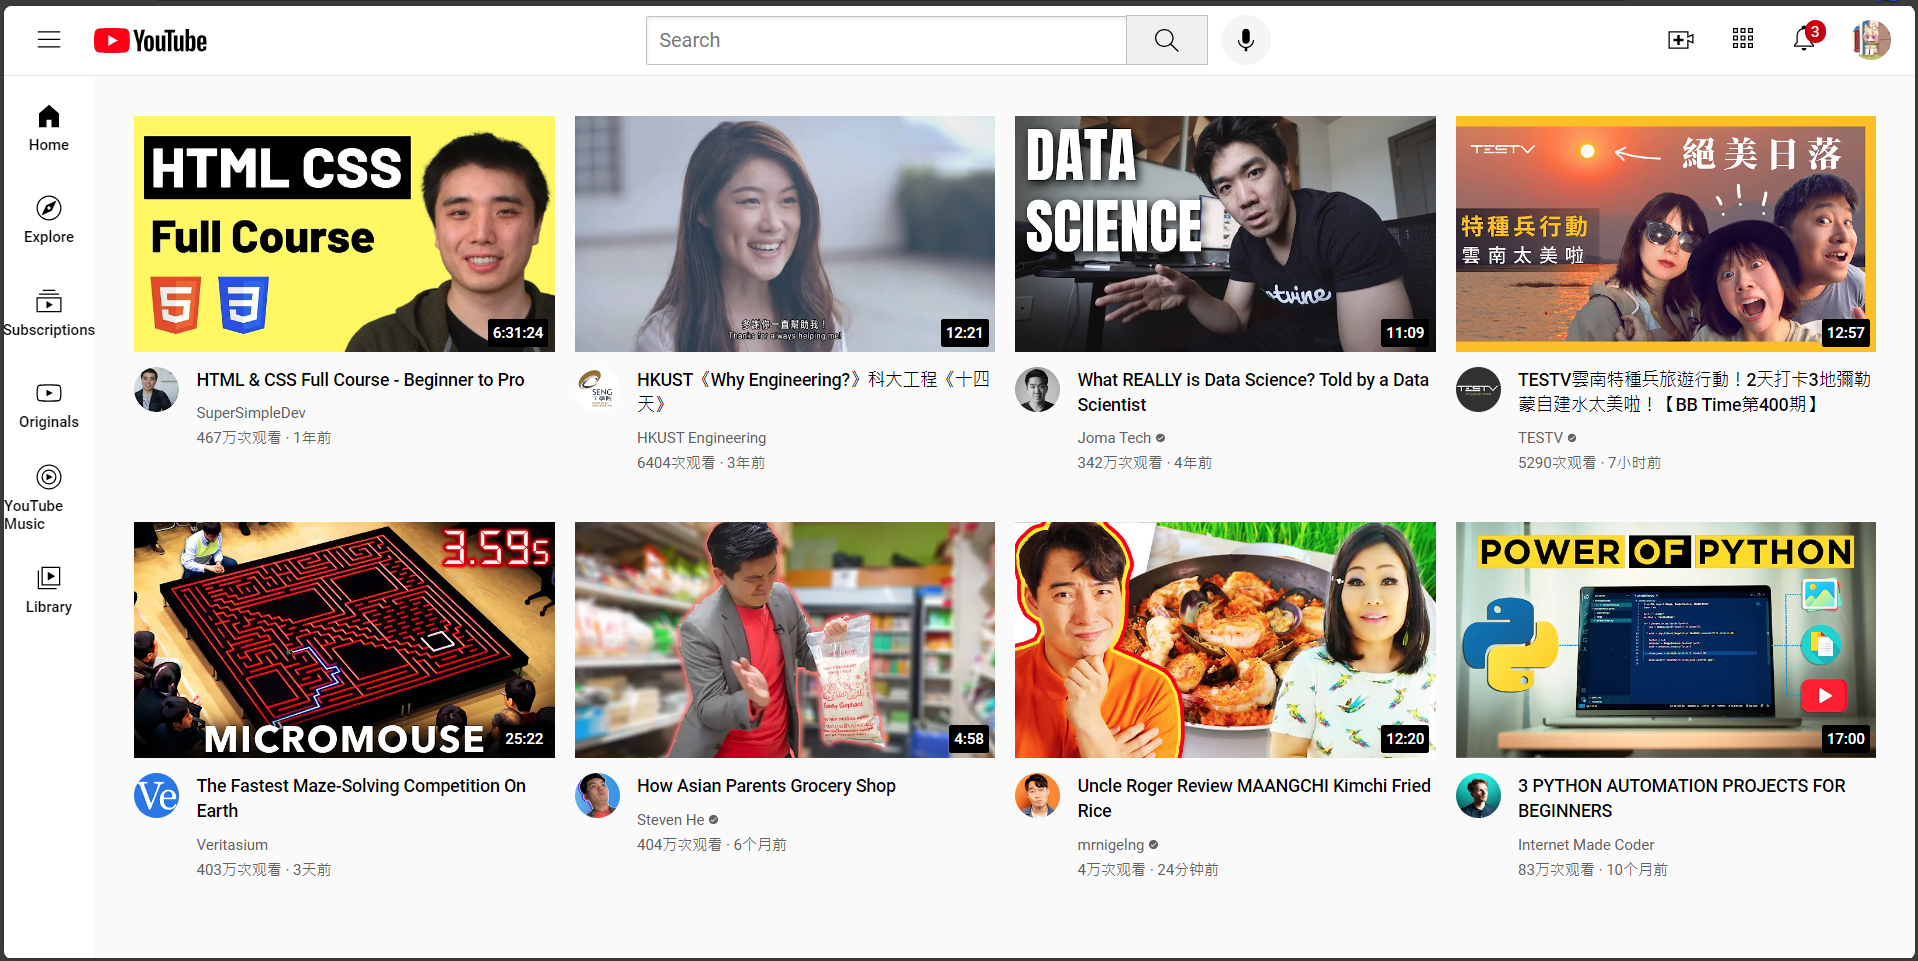
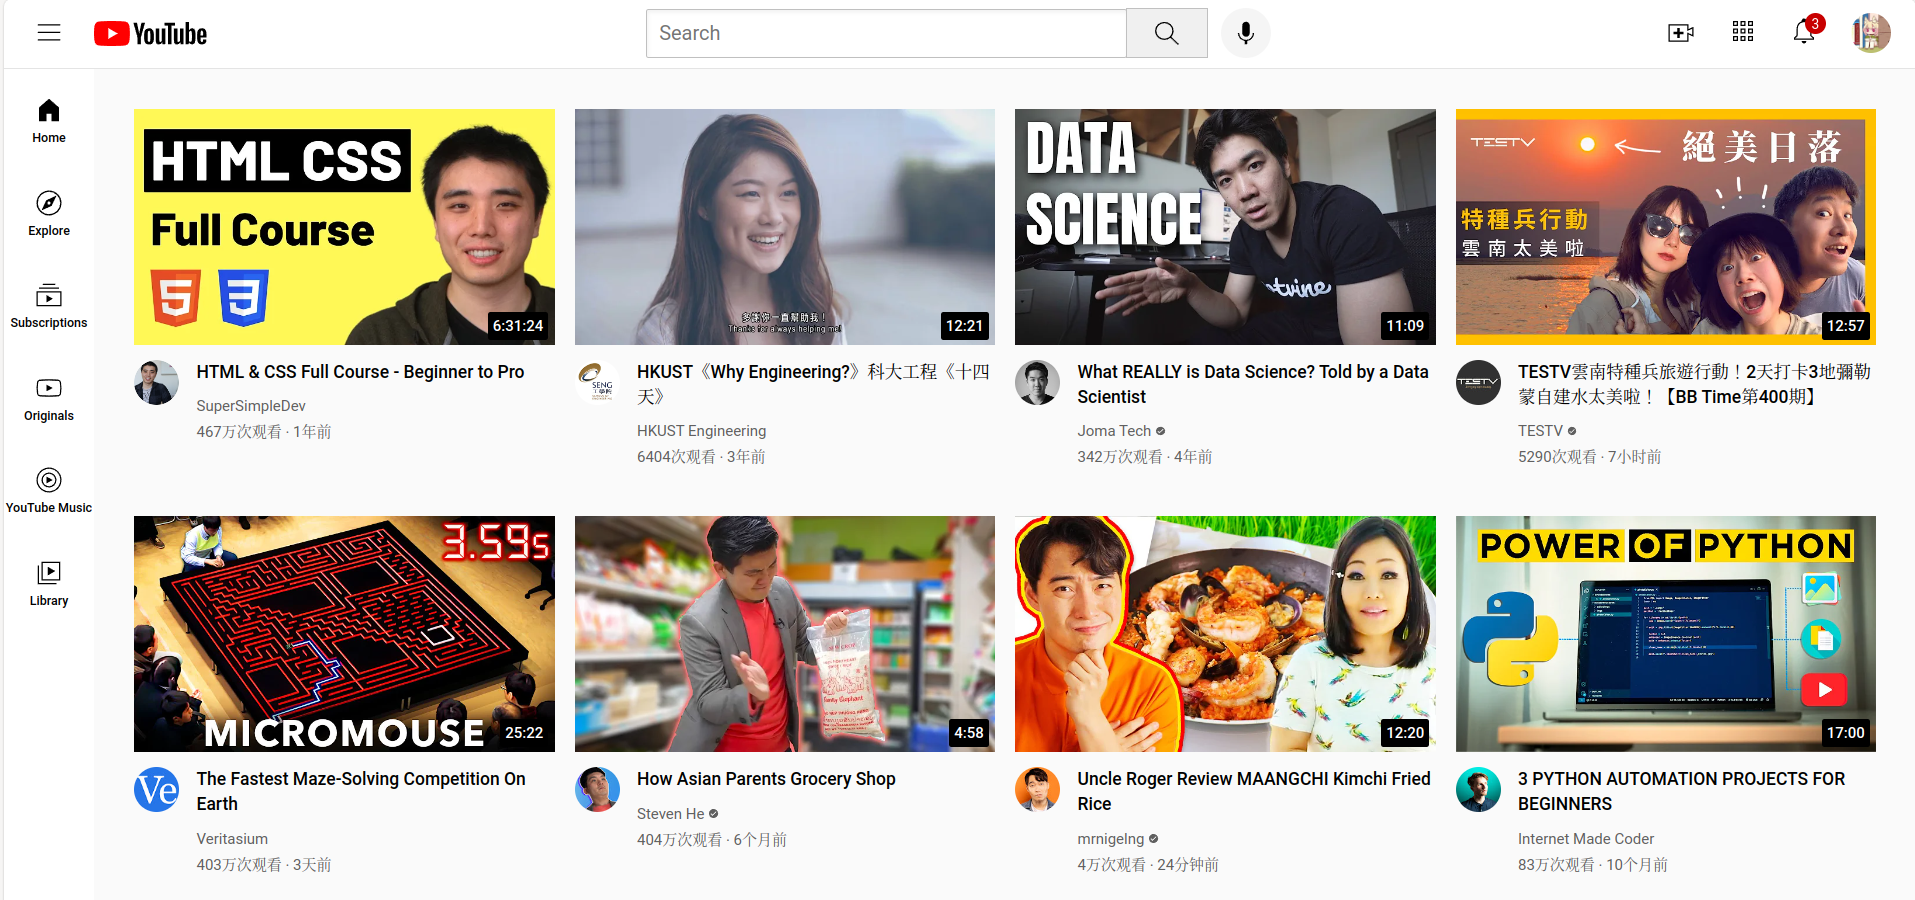
Misc update

diff --git a/youtube_clone/youtube.html b/youtube_clone/youtube.html
@@ -18,8 +18,8 @@
             <div class="left-section">
                 <img class="hamburger-menu" src="icons/hamburger-menu.svg"
                     alt="Menu Icon">
-                <img class="youtube-logo" src="icons/youtube-logo.svg"
-                    alt="YouTube Logo">
+                <a href="./youtube.html"><img class="youtube-logo" src="icons/youtube-logo.svg"
+                    alt="YouTube Logo"></a>
             </div>
             <div class="middle-section">
                 <input class="search-bar" type="text" placeholder="Search">
@@ -112,13 +112,13 @@
             </div>
             <div class="video-preview">
                 <div class="thumbnail-row">
-                    <img class="thumbnail" src="thumbnails/thumbnail-2.webp">
+                    <a href="https://www.youtube.com/watch?v=NqYLIrtSAEE&t=3s&ab_channel=HKUSTEngineering"><img class="thumbnail" src="thumbnails/thumbnail-2.webp"></a>
                     <div class="video-time">12:21</div>
                 </div>
                 <div class="video-info-grid">
                     <div class="channel-picture">
-                        <img class="profile-picture"
-                            src="channel-pictures/channel-2.jpg">
+                        <a href="https://www.youtube.com/@sengpr"><img class="profile-picture"
+                            src="channel-pictures/channel-2.jpg"></a>
                     </div>
                     <div class="video-info">
                         <p class="video-title">
@@ -135,13 +135,13 @@
             </div>
             <div class="video-preview">
                 <div class="thumbnail-row">
-                    <img class="thumbnail" src="thumbnails/thumbnail-3.webp">
+                    <a href="https://www.youtube.com/watch?v=xC-c7E5PK0Y&ab_channel=JomaTech"><img class="thumbnail" src="thumbnails/thumbnail-3.webp"></a>
                     <div class="video-time">11:09</div>
                 </div>
                 <div class="video-info-grid">
                     <div class="channel-picture">
-                        <img class="profile-picture"
-                            src="channel-pictures/channel-3.jpg">
+                        <a href="https://www.youtube.com/@jomaoppa"><img class="profile-picture"
+                            src="channel-pictures/channel-3.jpg"></a>
                     </div>
                     <div class="video-info">
                         <p class="video-title">
@@ -159,13 +159,13 @@
             </div>
             <div class="video-preview">
                 <div class="thumbnail-row">
-                    <img class="thumbnail" src="thumbnails/thumbnail-4.webp">
+                    <a href="https://www.youtube.com/watch?v=l9dZ1zDGKxg&t=2s&ab_channel=TESTV"><img class="thumbnail" src="thumbnails/thumbnail-4.webp"></a>
                     <div class="video-time">12:57</div>
                 </div>
                 <div class="video-info-grid">
                     <div class="channel-picture">
-                        <img class="profile-picture"
-                            src="channel-pictures/channel-4.jpg">
+                        <a href="https://www.youtube.com/@testvcn"><img class="profile-picture"
+                            src="channel-pictures/channel-4.jpg"></a>
                     </div>
                     <div class="video-info">
                         <p class="video-title">
@@ -182,13 +182,13 @@
             </div>
             <div class="video-preview">
                 <div class="thumbnail-row">
-                    <img class="thumbnail" src="thumbnails/thumbnail-5.webp">
+                    <a href="https://www.youtube.com/watch?v=ZMQbHMgK2rw&ab_channel=Veritasium"><img class="thumbnail" src="thumbnails/thumbnail-5.webp"></a>
                     <div class="video-time">25:22</div>
                 </div>
                 <div class="video-info-grid">
                     <div class="channel-picture">
-                        <img class="profile-picture"
-                            src="channel-pictures/channel-5.jpg">
+                        <a href="https://www.youtube.com/@veritasium"><img class="profile-picture"
+                            src="channel-pictures/channel-5.jpg"></a>
                     </div>
                     <div class="video-info">
                         <p class="video-title">
@@ -205,13 +205,13 @@
             </div>
             <div class="video-preview">
                 <div class="thumbnail-row">
-                    <img class="thumbnail" src="thumbnails/thumbnail-6.webp">
+                    <a href="https://www.youtube.com/watch?v=1V1ZrKOeXic&ab_channel=StevenHe"><img class="thumbnail" src="thumbnails/thumbnail-6.webp"></a>
                     <div class="video-time">4:58</div>
                 </div>
                 <div class="video-info-grid">
                     <div class="channel-picture">
-                        <img class="profile-picture"
-                            src="channel-pictures/channel-6.jpg">
+                        <a href="https://www.youtube.com/@StevenHe"><img class="profile-picture"
+                            src="channel-pictures/channel-6.jpg"></a>
                     </div>
                     <div class="video-info">
                         <p class="video-title">
@@ -228,13 +228,13 @@
             </div>
             <div class="video-preview">
                 <div class="thumbnail-row">
-                    <img class="thumbnail" src="thumbnails/thumbnail-7.webp">
+                    <a href="https://www.youtube.com/watch?v=QVWV3n1jME8&ab_channel=mrnigelng"><img class="thumbnail" src="thumbnails/thumbnail-7.webp"></a>
                     <div class="video-time">12:20</div>
                 </div>
                 <div class="video-info-grid">
                     <div class="channel-picture">
-                        <img class="profile-picture"
-                            src="channel-pictures/channel-7.jpg">
+                        <a href="https://www.youtube.com/@mrnigelng"><img class="profile-picture"
+                            src="channel-pictures/channel-7.jpg"></a>
                     </div>
                     <div class="video-info">
                         <p class="video-title">
@@ -251,13 +251,13 @@
             </div>
             <div class="video-preview">
                 <div class="thumbnail-row">
-                    <img class="thumbnail" src="thumbnails/thumbnail-8.webp">
+                    <a href="https://www.youtube.com/watch?v=vEQ8CXFWLZU&t=58s&ab_channel=InternetMadeCoder"><img class="thumbnail" src="thumbnails/thumbnail-8.webp"></a>
                     <div class="video-time">17:00</div>
                 </div>
                 <div class="video-info-grid">
                     <div class="channel-picture">
-                        <img class="profile-picture"
-                            src="channel-pictures/channel-8.jpg">
+                        <a href="https://www.youtube.com/@InternetMadeCoder"><img class="profile-picture"
+                            src="channel-pictures/channel-8.jpg"></a>
                     </div>
                     <div class="video-info">
                         <p class="video-title">
@@ -273,6 +273,7 @@
                 </div>
             </div>
         </div>
+        <hr style="margin-top: 30px; color: rgb(245, 245, 245); border-width: 3px;">
     </body>
 
 </html>

diff --git a/youtube_clone/styles/header.css b/youtube_clone/styles/header.css
@@ -26,6 +26,7 @@
     height: 24px;
     margin-left: 24px;
     margin-right: 24px;
+    cursor: pointer;
   }
   
   .youtube-logo {
@@ -154,10 +155,12 @@
   
   .upload-icon {
     height: 24px;
+    cursor: pointer;
   }
   
   .youtube-apps-icon {
     height: 24px;
+    cursor: pointer;
   }
 
   .youtube-apps-icon-container {
@@ -166,6 +169,7 @@
   
   .notifications-icon {
     height: 24px;
+    cursor: pointer;
   }
 
   .notifications-icon-container {
@@ -194,4 +198,5 @@
   .current-user-picture {
     height: 32px;
     border-radius: 16px;
+    cursor: pointer;
   }
